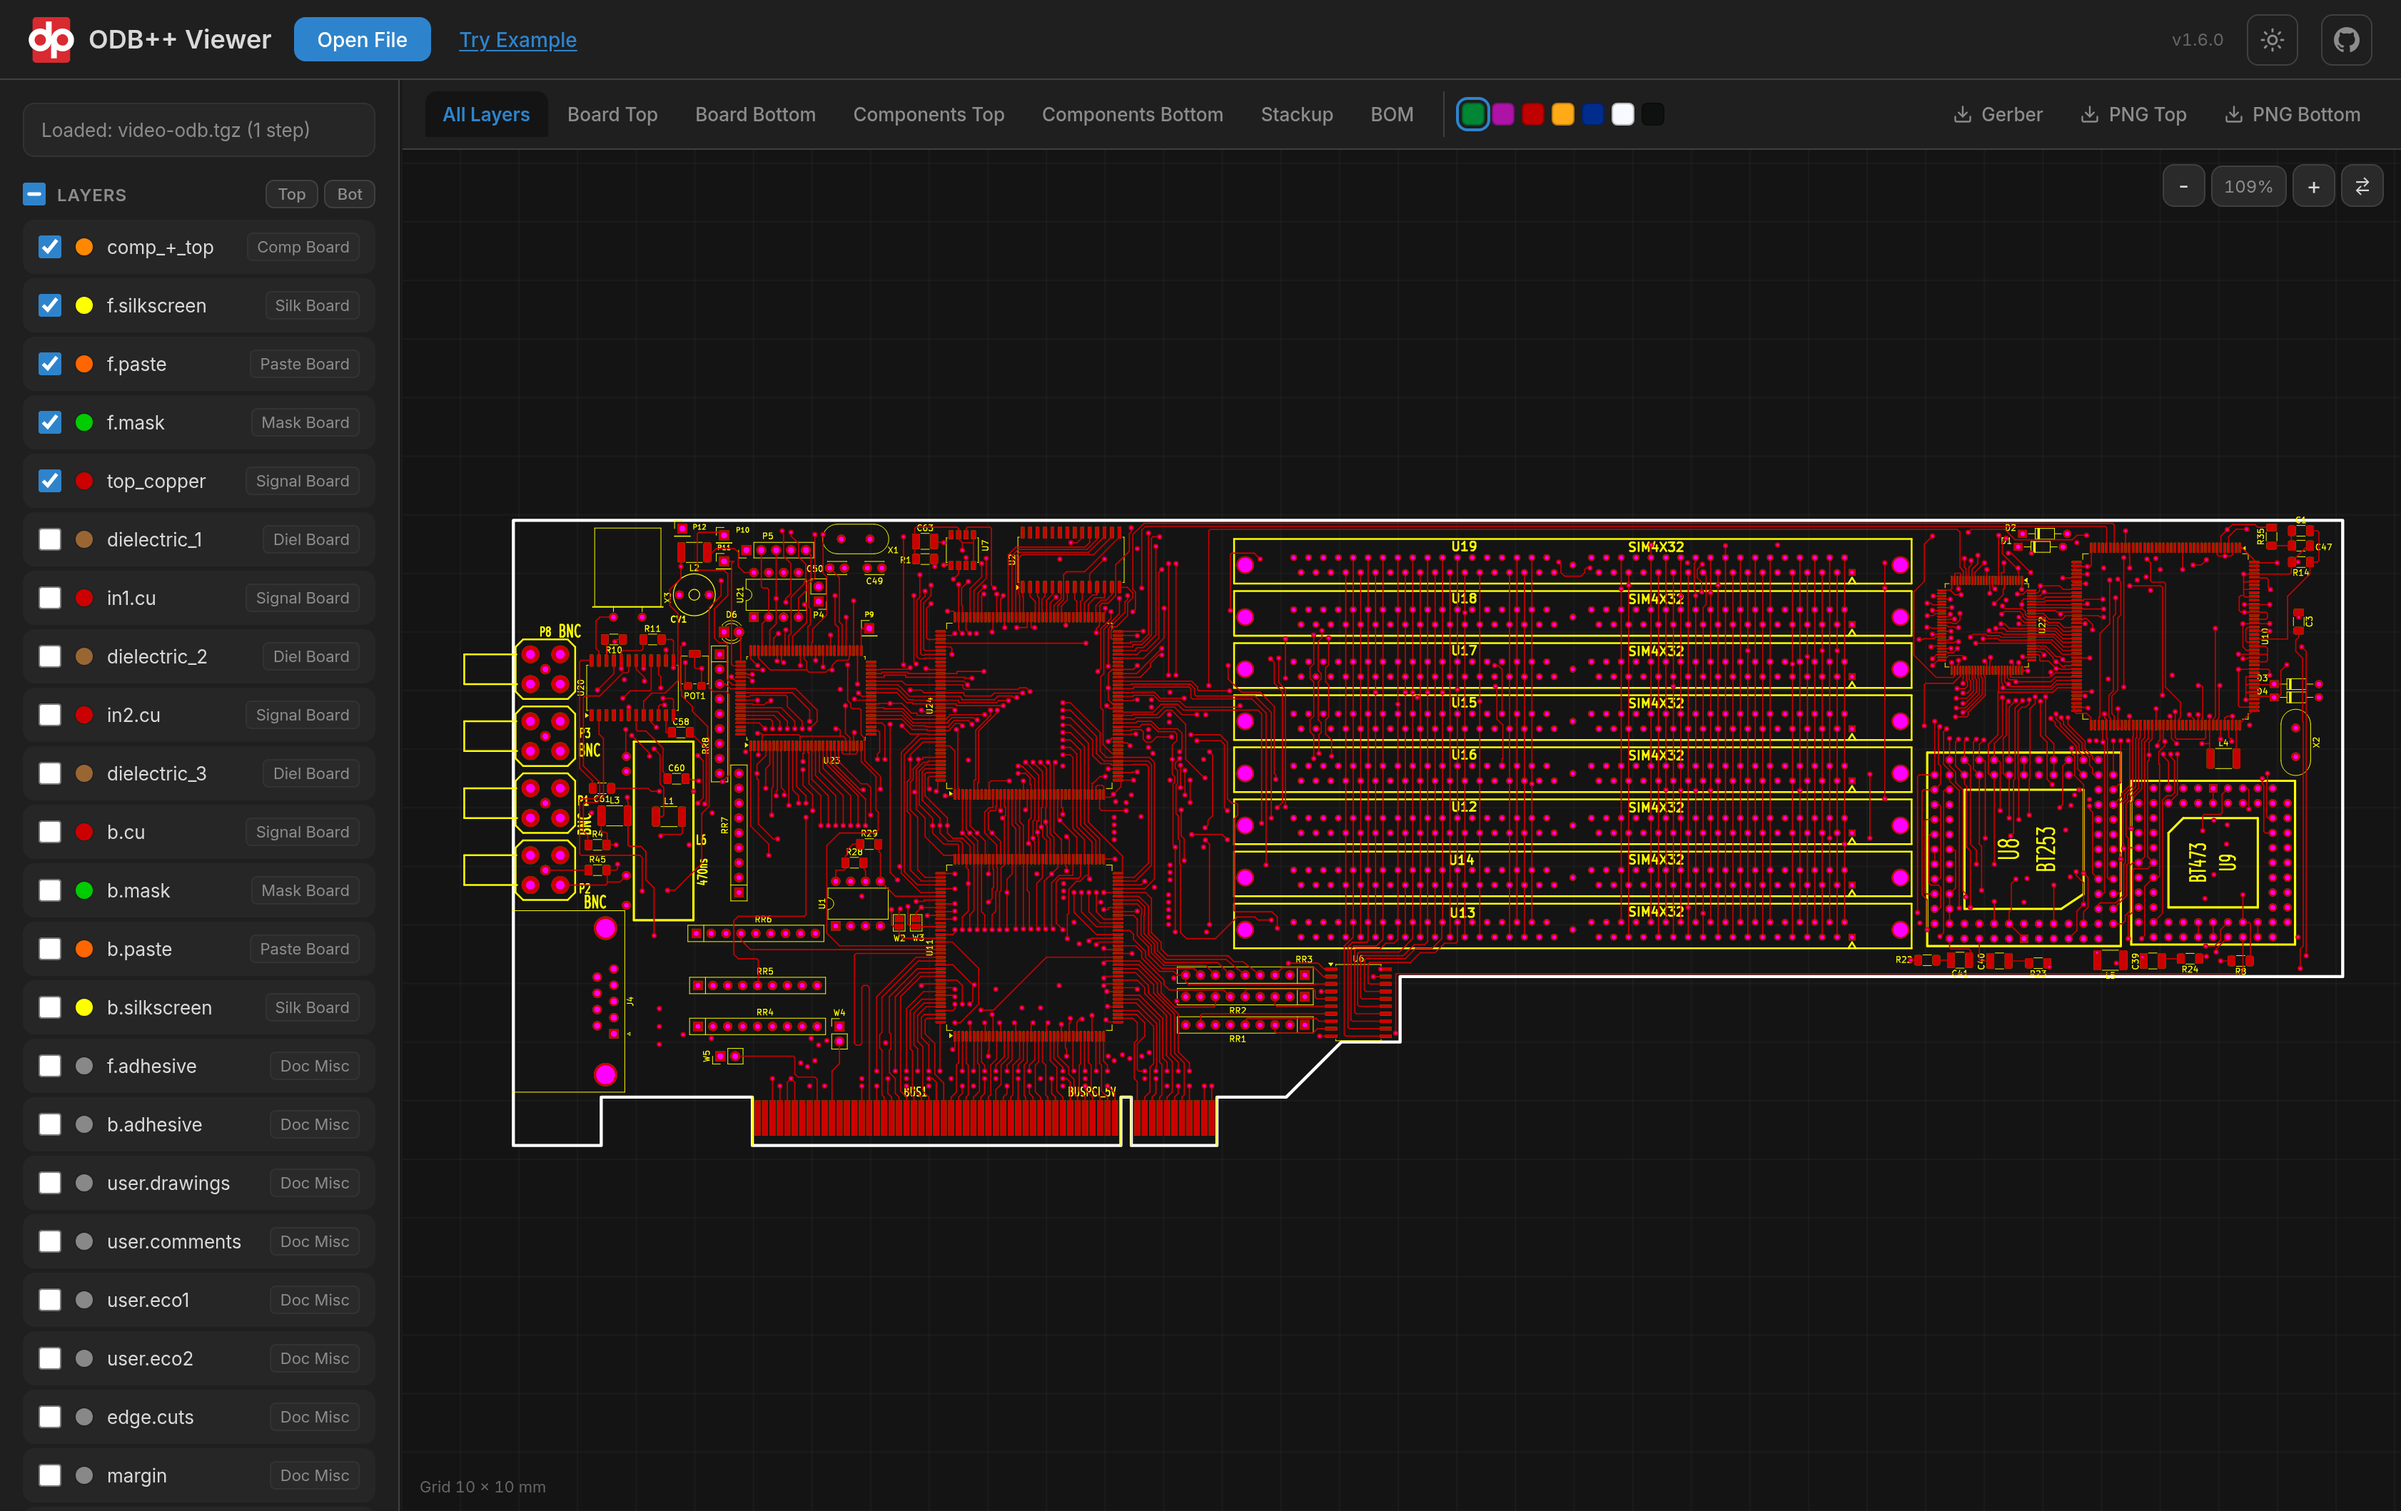
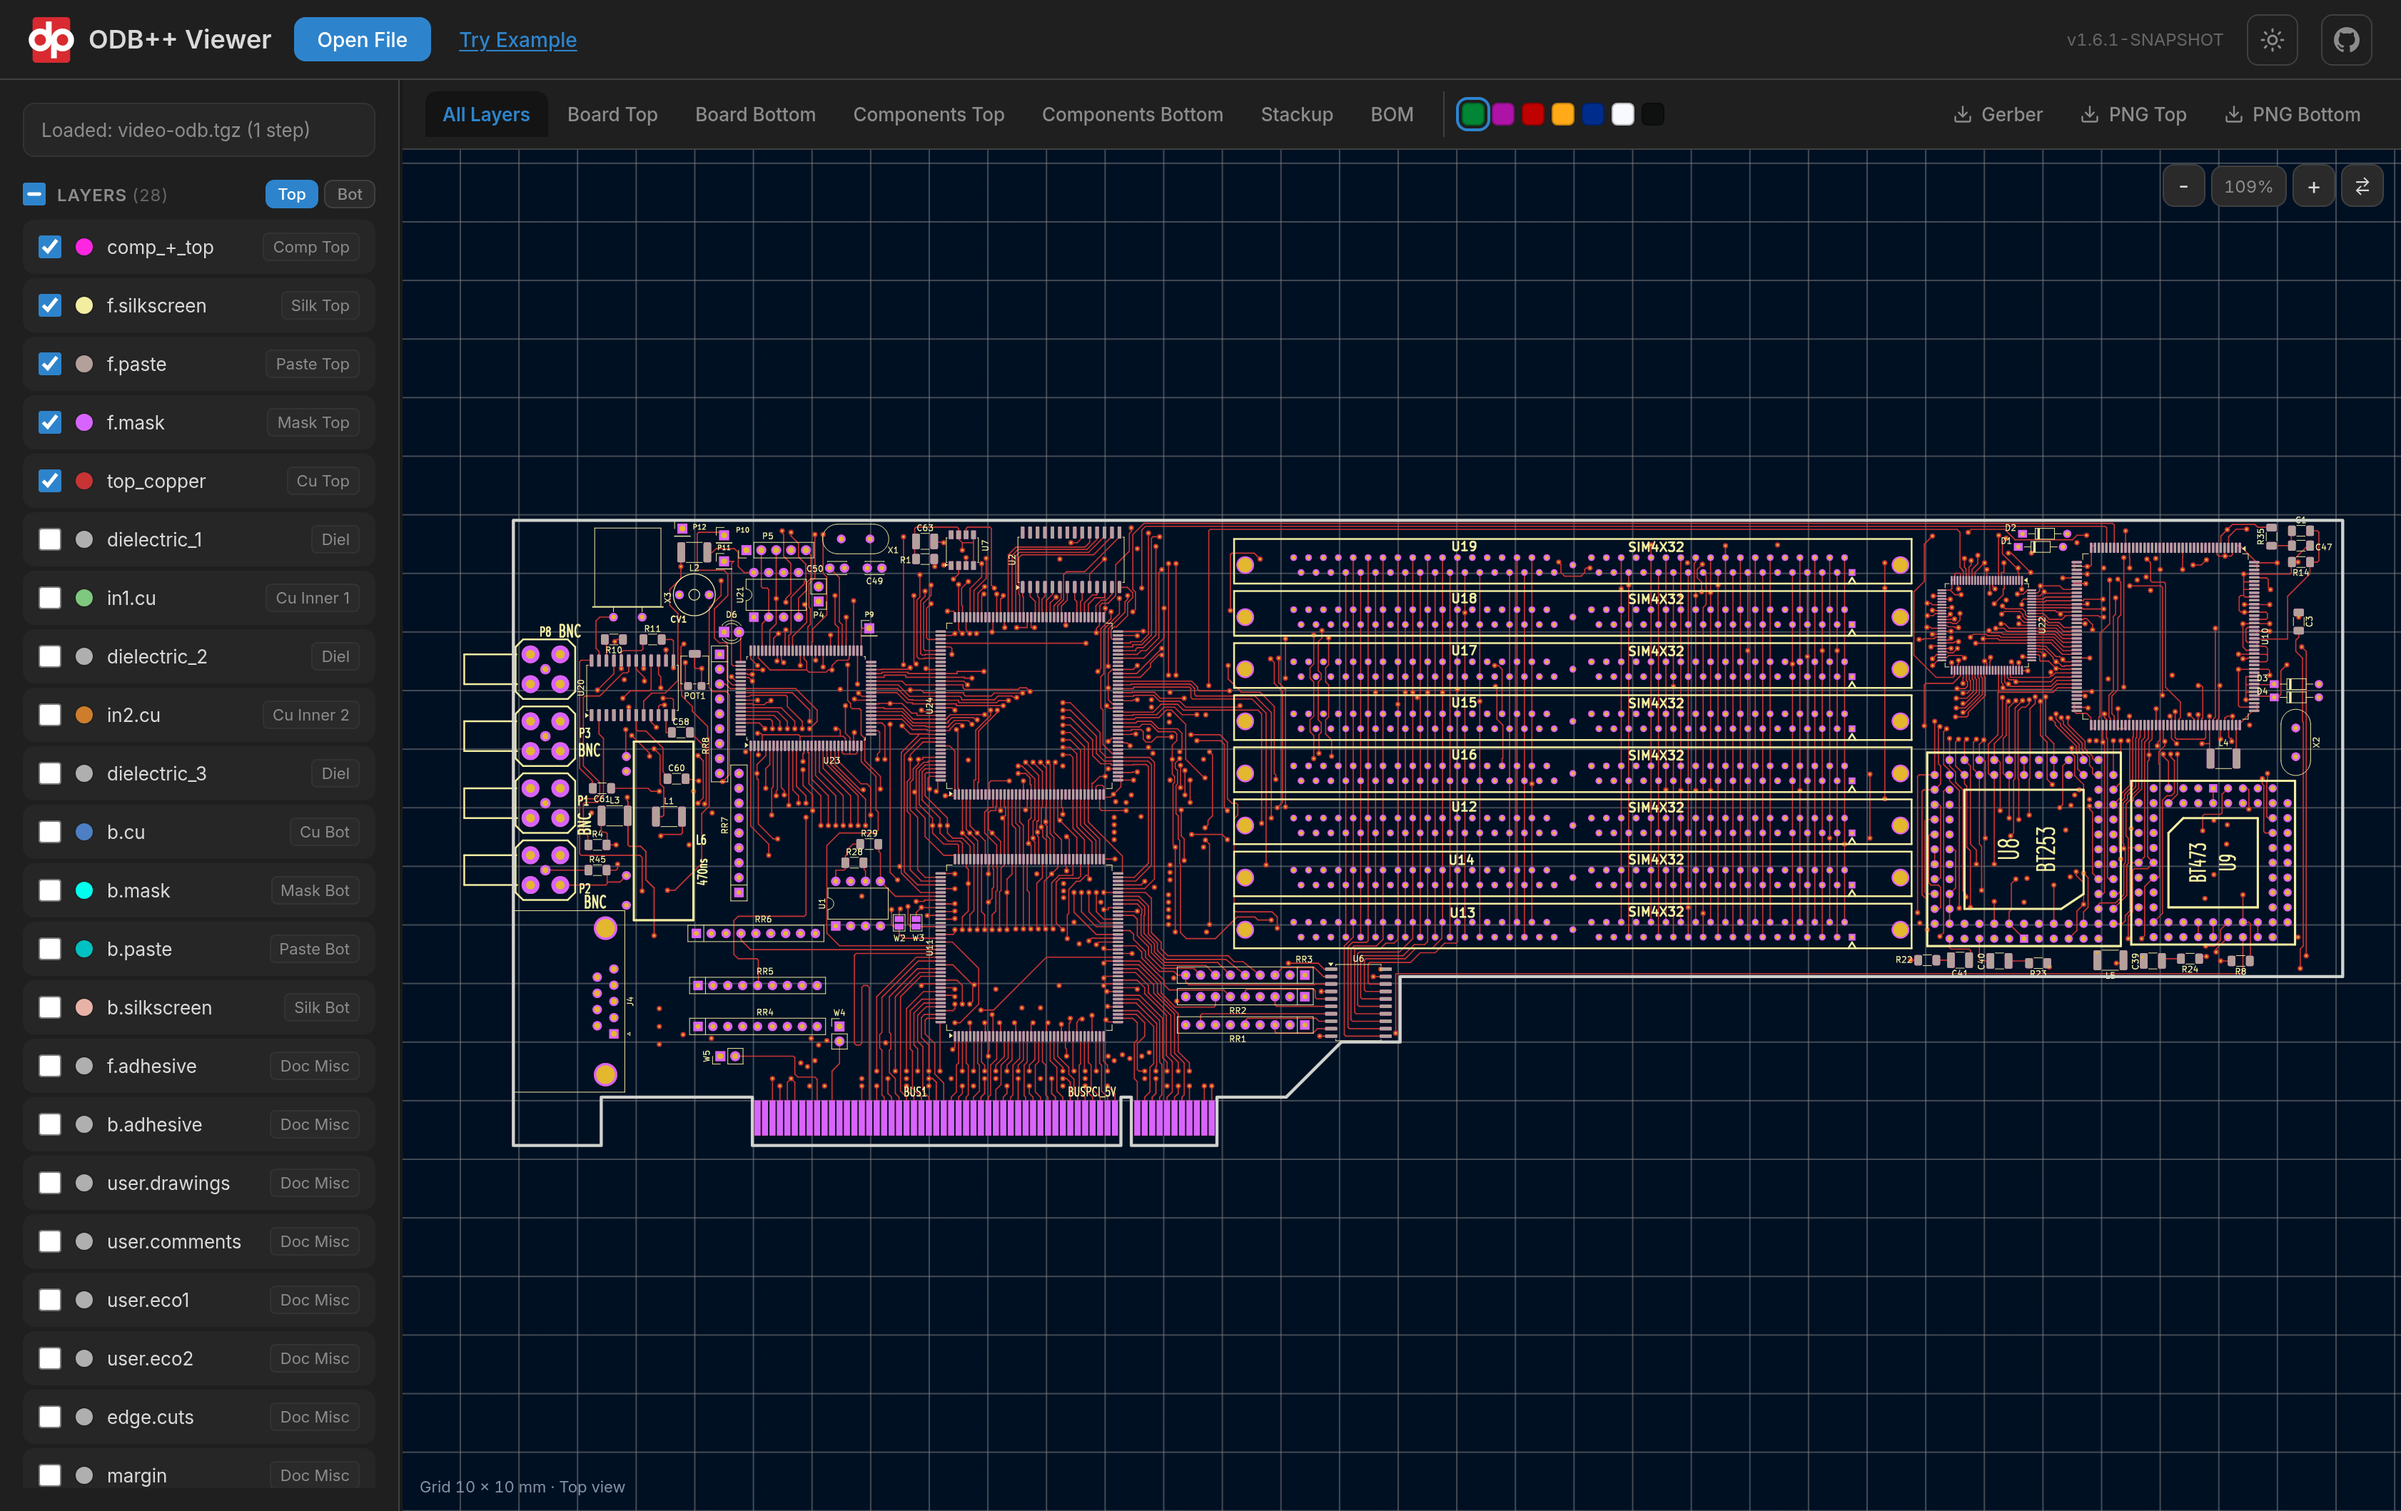
README: screenshots of the restyled viewer, paste/stencil and phone layout
All screenshots are retaken from the sample archives in examples/.

Claude-Session: https://claude.ai/code/session_01CqMAZPSP6X4DWTZvwkqEqm

diff --git a/README.md b/README.md
@@ -14,13 +14,15 @@ ODB++ archive.*
 | | |
 |---|---|
 | ![All Layers view with the top-side layers selected](docs/screenshot-layers.png) | ![Board Top with a blue soldermask](docs/screenshot-soldermask.png) |
-| **Layer view** — every matrix layer as its own toggleable SVG layer; *Top* / *Bot* pick one side of the board, hovering a layer isolates it | **Soldermask colours** — green, purple, red, yellow, blue, white or black, switched live in the realistic views |
+| **Layer view** — every matrix layer as its own toggleable SVG layer in KiCad's layer colours; *Top* / *Bot* pick one side of the board (the bottom is shown mirrored, as seen from below), hovering a layer isolates it | **Soldermask colours** — green, purple, red, yellow, blue, white or black, switched live in the realistic views |
 | ![Rigid-flex board, top side, black soldermask](docs/screenshot-rigid-flex.png) | ![Rigid-flex board, bottom side](docs/screenshot-board-bottom.png) |
 | **Rigid-flex** — flex tail, coverlay and the dense BGA fan-outs of a 10-layer rigid-flex design | **Both sides** — the bottom of the same board, viewed from below |
 | ![Component placement overlay](docs/screenshot-components.png) | ![PCB layer stackup](docs/screenshot-stackup.png) |
 | **Components** — package outlines, pins and reference designators over the board, per side | **Stackup** — materials, dielectric constants and thicknesses, with the stack sum |
 | ![Bill of materials](docs/screenshot-bom.png) | ![Light theme](docs/screenshot-light.png) |
 | **BOM** — parts grouped with their reference designators, searchable, exportable as BOM or centroid CSV | **Light and dark themes** — plus one-click Gerber and PNG downloads |
+| ![Solder paste under a stencil foil](docs/screenshot-stencil.png) | ![The viewer on a phone](docs/screenshot-phone.png) |
+| **Paste and stencil** — solder paste on the pads, optionally seen through a stencil foil with its apertures cut out, with adjustable opacity | **On a phone** — the layer list becomes a bottom sheet, the tabs scroll sideways; drag to pan, pinch to zoom, tap a component for its details |
 
 All screenshots show the openly-available sample archives in [`examples/`](examples).
 
@@ -50,10 +52,13 @@ All screenshots show the openly-available sample archives in [`examples/`](examp
   symbol is drawn from its exact outline (thermals, donuts, rounded and chamfered
   rectangles, ovals, butterflies, moiré, hole symbols, …), user-defined symbols
   included, with rotation, mirroring and resize
-- Multi-layer composite rendering with configurable colours and opacity
+- Multi-layer composite rendering with configurable colours and opacity;
+  `LayerPalette.kicad(matrix)` colours a board the way KiCad does (copper by
+  side, a distinct colour per inner layer, mask, silk, paste, drills, outline)
 - Realistic top/bottom PCB views: copper under soldermask, exposed pads in the
   surface finish, silkscreen, through holes, and blind or micro vias as dimples
-  under the mask; seven soldermask colours
+  under the mask; seven soldermask colours. The SVG also carries hidden
+  solder-paste and stencil-foil groups a viewer can switch on
 - Negative (clear) features cut through the layer instead of being painted in the
   background colour, so layers stay correct when stacked
 - Frames are computed from what a layer actually draws — pad shapes, stroke
@@ -85,16 +90,19 @@ All screenshots show the openly-available sample archives in [`examples/`](examp
 ### Web Viewer (`delta-odbpp-app`)
 - Spring Boot app: open an archive (or press **Try Example**) and browse it in
   the browser — nothing is installed on the client
-- **All Layers**: stacked SVG layers in matrix order with per-layer toggling,
-  *Top* / *Bot* side filters, hover-to-isolate, pan and zoom on a millimetre grid
+- **All Layers**: stacked SVG layers in KiCad's colours with per-layer toggling,
+  *Top* / *Bot* side filters (a bottom-only selection is mirrored, as seen from
+  below), hover-to-isolate, pan and zoom on a millimetre grid
 - **Board Top / Board Bottom**: realistic renders with a live soldermask colour
-  picker
+  picker and a solder-paste / stencil overlay with adjustable opacity
 - **Components Top / Bottom**: package outlines and reference designators over
-  the board
+  the board; hover or tap a component for its part, package and placement
 - **Stackup**: layer table with materials, Dk and thicknesses
 - **BOM**: searchable parts list with BOM and centroid CSV export
 - Downloads: Gerber X2 + Excellon zip, PNG of either side
 - Light and dark themes
+- Works on a phone: the layer list is a swipe-up bottom sheet, the view tabs
+  scroll sideways, one finger pans, two fingers pinch-zoom
 
 ## Quick Start
 
